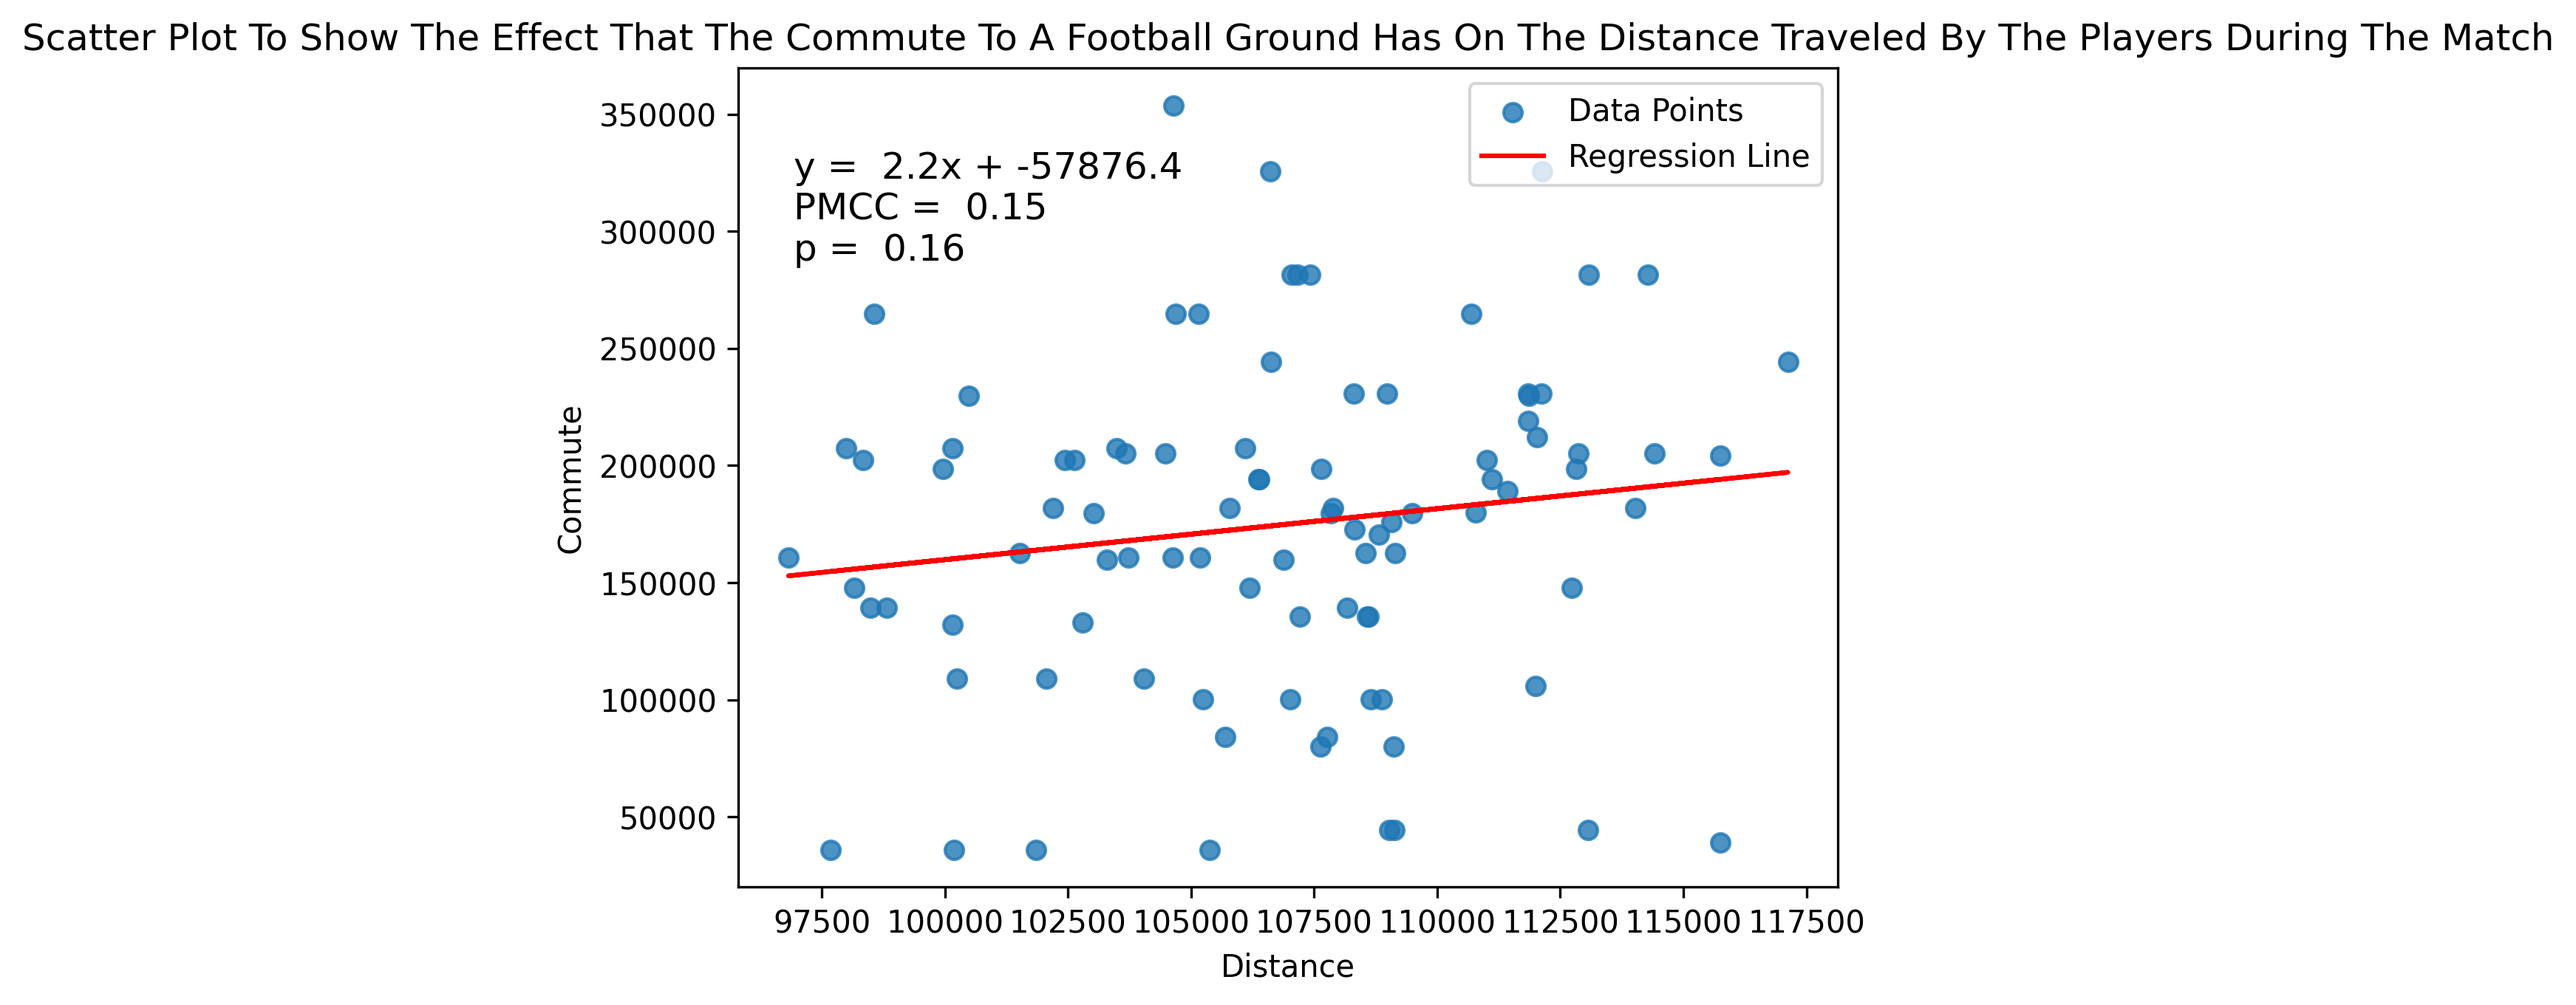
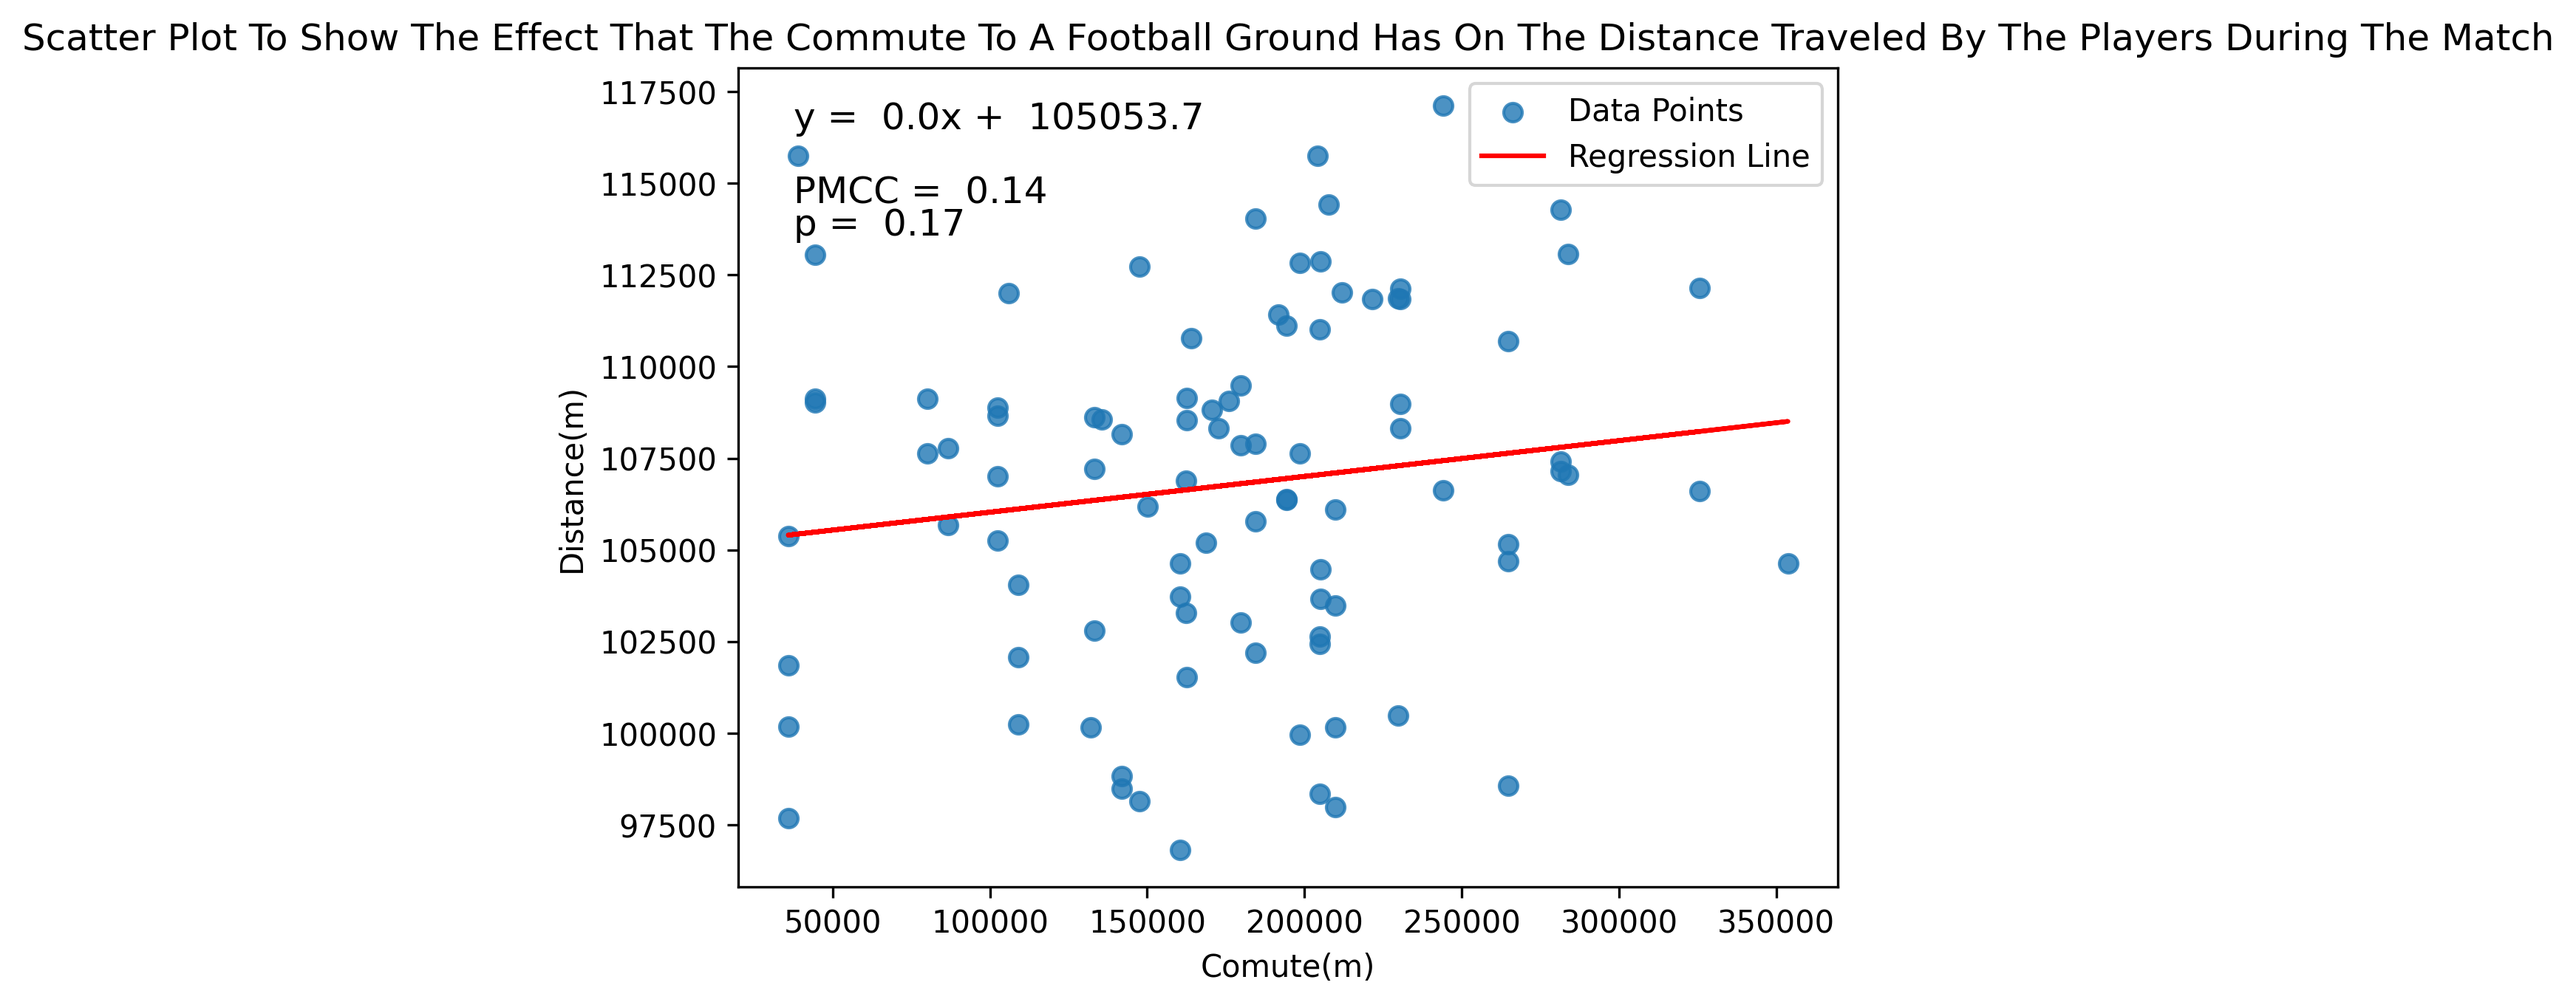
Made the graphs a bit better

diff --git a/James/homeAdvantage.py b/James/homeAdvantage.py
@@ -3,12 +3,13 @@ import googlemaps as gmaps
 import matplotlib.pyplot as plt
 import numpy as np
 import pearsonr
+import math
 
 def addCommuteToDataFrame():
     # Initialising the Google Maps Distance Matrix API
     API_KEY = 'AIzaSyBGxmBxWKzk5l61JirnnpHFA9dakZD0cjI'
     cli = gmaps.Client(key=API_KEY)
-
+    
     coventry_stadium_coords = (52.4481, -1.4944)
 
     opponent_stadium_data = {
@@ -159,23 +160,23 @@ def distanceCommuteScatterGraph(dframe):
 
     #A Scatter Plot of Commute vs The distance that players ran during games
     plt.figure()
-    plt.scatter(am['Commute'], am['Distance'], label = 'Data Points', alpha = 0.8)
+    plt.scatter(am['Distance'], am['Commute'], label = 'Data Points', alpha = 0.8)
 
     # Calculate, and plot the regression line
-    m, b = np.polyfit(am['Commute'], am['Distance'], 1)
+    m, b = np.polyfit(am['Distance'], am['Commute'], 1)
     reg = f"y = {m : .1f}x + {b : .1f}"
-    plt.plot(am['Commute'], m * am['Commute'] + b, color = 'red', label = 'Regression Line', alpha = 1)
+    plt.plot(am['Distance'], m * am['Distance'] + b, color = 'red', label = 'Regression Line', alpha = 1)
 
     # Calculate the PMCC and p value
-    pmcc, p = pearsonr.pearsonr(am['Commute'], am['Distance'])
+    pmcc, p = pearsonr.pearsonr(am['Distance'], am['Commute'])
 
     # Adding a title, labels, the regression line, pmcc and p value, and a legend/key to the graph
     plt.title('Scatter Plot to show the effect that the commute to a football ground has on the distance traveled by the players during the match'.title())
-    plt.xlabel('Comute(m)')
-    plt.ylabel('Distance(m)')
-    plt.text(x = 0.05, y = 0.96, s = reg, fontsize = 12, ha = 'left', va = 'top', transform = plt.gca().transAxes)
-    plt.text(x = 0.05, y = 0.87, s = f"PMCC = {pmcc : .2f}", fontsize = 12, ha = 'left', va = 'top', transform = plt.gca().transAxes)
-    plt.text(x = 0.05, y = 0.83, s = f"p = {p : .2f}", fontsize = 12, ha = 'left', va = 'top', transform = plt.gca().transAxes)
+    plt.xlabel('Distance')
+    plt.ylabel('Commute')
+    plt.text(x = 0.05, y = 0.90, s = reg, fontsize = 12, ha = 'left', va = 'top', transform = plt.gca().transAxes)
+    plt.text(x = 0.05, y = 0.85, s = f"PMCC = {pmcc : .2f}", fontsize = 12, ha = 'left', va = 'top', transform = plt.gca().transAxes)
+    plt.text(x = 0.05, y = 0.80, s = f"p = {p : .2f}", fontsize = 12, ha = 'left', va = 'top', transform = plt.gca().transAxes)
     plt.legend()
 
     #Storing the graph inside of a file
@@ -391,15 +392,16 @@ def commuteAvgPoints(dframe):
     plt.text(x = 0.01, y = 0.90, s = f"p = {p : .2f}", fontsize = fsize, ha = 'left', va = 'top', transform = plt.gca().transAxes)
     plt.title('Bar Chart of Commute distance vs points per game'.title())
     plt.legend()
+    plt.savefig("commute-ppg-bar2.png", dpi=300, bbox_inches='tight')
+    plt.show
 
-    plt.savefig("commute-ppg-bar.png", dpi=300, bbox_inches='tight')
 
 
 
 awayMatches_df = addCommuteToDataFrame()
 awayMatches_df_clean = awayMatches_df.dropna()
-distanceCommuteScatterGraph(awayMatches_df_clean)
-hsrAndSprintsCommitScatterGraph(awayMatches_df_clean)
-xgToCommuteScatterGraph(awayMatches_df_clean)
-goalsToCommuteScatterGraph(awayMatches_df_clean)
+#distanceCommuteScatterGraph(awayMatches_df_clean)
+#hsrAndSprintsCommitScatterGraph(awayMatches_df_clean)
+#xgToCommuteScatterGraph(awayMatches_df_clean)
+#goalsToCommuteScatterGraph(awayMatches_df_clean)
 commuteAvgPoints(awayMatches_df_clean)
